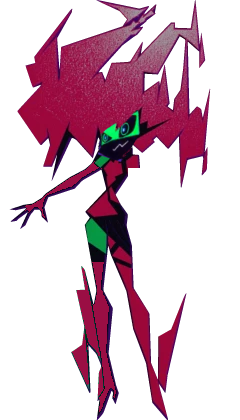
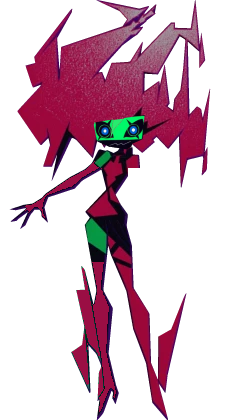
Her face facing you, as in the show
The profile face was too tilted and, at her size on screen, came out a
green blob. Her face is now cut from a still of her facing you (her
close-up as she meets D): the wide green mask with both big eyes side by
side, black sockets with spiked corners, green rings, blue irises, white
pupils, her black jaw and zigzag of a mouth; the strand of her mane that
crosses it is filled with the mask's green. Set in bigger (52 sprite px
wide) and nearer level than her head, and the shader keeps a wider part
of her head rigid when her mane flares, so it stays whole.

Changed region(s): [[0.3792, 0.2476, 0.6125, 0.4024]]

diff --git a/src/renderer/js/sprite.js b/src/renderer/js/sprite.js
@@ -214,7 +214,7 @@ vec2 bend(vec2 q) {
   if (uMane != 0.0) {
     vec2 d = q - MANE;
     float spikes = 0.55 + 0.9 * vnoise(vec2(atan(d.y, d.x) * 2.6, 4.0));
-    float w = smoothstep(182.0, 60.0, q.y) * smoothstep(16.0, 30.0, distance(q, FACE));
+    float w = smoothstep(182.0, 60.0, q.y) * smoothstep(27.0, 40.0, distance(q, FACE)); // her mask (52 wide) stays whole
     q = MANE + d / (1.0 + uMane * w * 0.32 * spikes);
   }
 
